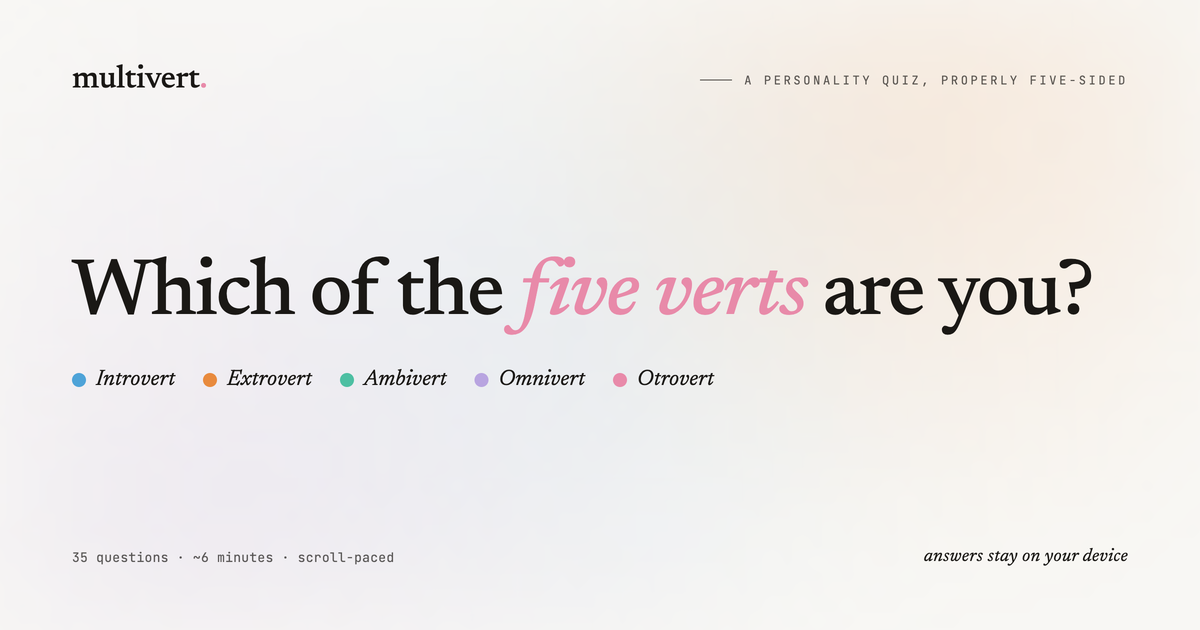
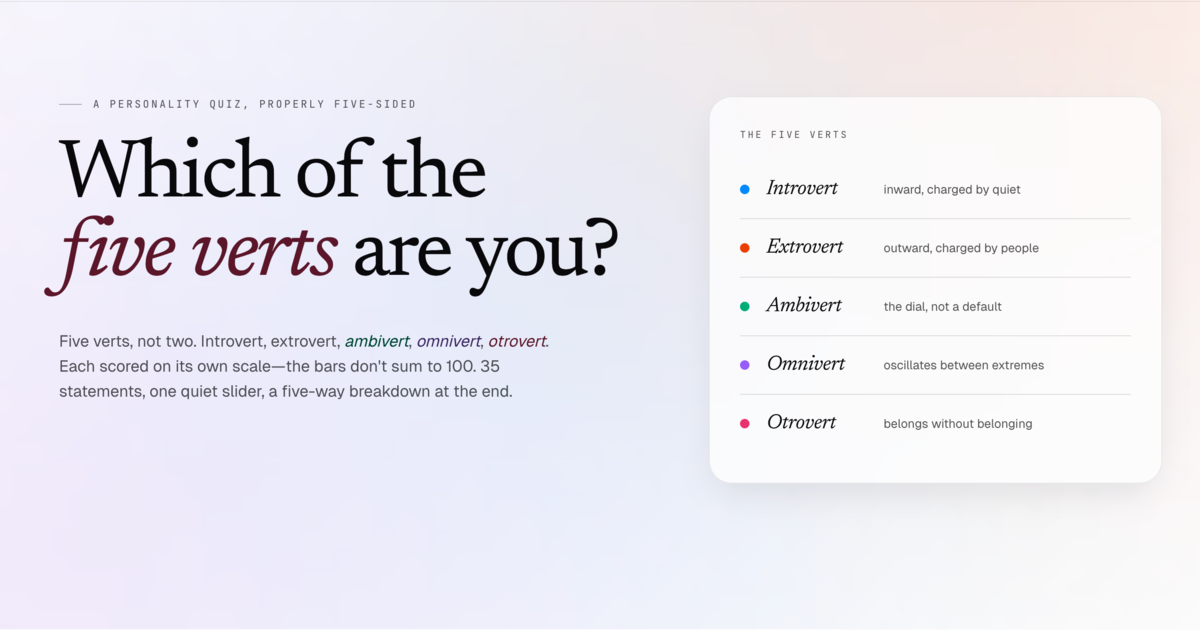
feat(landing): hero copy + share-surface housekeeping (#19)
* feat(landing): rewrite hero lede + refresh og-image to match

The previous lede did two things it shouldn't:

1. Sold readers on the categories existing ("Most quizzes only know
   two: introvert, extrovert. There are three more—…"). Anyone curious
   about whether ambivert is real can google. The hero's job is to
   invite the take, not justify the model.
2. Cited a single psychiatrist (Kaminski for otrovert) while ignoring
   the equally-cited researchers behind ambivert (Adam Grant) and
   omnivert (Cleveland Clinic). Naming one and not the others reads as
   endorsing him over them — unfair representation on the cover when
   the README's Acknowledgements section gives all five sources equal
   billing.

New lede stays in the project's deadpan/structural voice: leads with
the model fact most readers won't know (the bars don't sum to 100),
keeps the existing rhythm + the colored em-styling for the three less-
familiar verts, drops both the defensive opener and the citation.

`static/og-image.png` swapped for a new 1200x630 composition that
mirrors the updated lede. Cropped from a 2541x1334 source to the OG
spec, downscaled and recompressed (185KB, well under WhatsApp's ~300KB
unfurl ceiling).

Generated-by: claude-opus-4-7

* chore(seo): trim sitemap fluff + block AI training crawlers in robots

`static/sitemap.xml`
  Dropped <changefreq>monthly</changefreq>: the quiz is a portfolio
  piece and doesn't change monthly (or honestly, much at all). Crawlers
[…]

diff --git a/src/routes/+page.svelte b/src/routes/+page.svelte
@@ -301,11 +301,10 @@
 			</h1>
 
 			<p class="hero__lede">
-				Most quizzes only know two: introvert, extrovert. There are three more—<em
-					data-vert="ambivert">ambivert</em
-				>, <em data-vert="omnivert">omnivert</em>, and
-				<em data-vert="otrovert">otrovert</em>, popularized by psychiatrist Rami Kaminski in 2025.
-				{questions.length} statements, one quiet slider, a five-way breakdown at the end.
+				Five verts, not two. Introvert, extrovert, <em data-vert="ambivert">ambivert</em>,
+				<em data-vert="omnivert">omnivert</em>, <em data-vert="otrovert">otrovert</em>. Each scored
+				on its own scale—the bars don't sum to 100. {questions.length} statements, one quiet slider, a
+				five-way breakdown at the end.
 			</p>
 
 			<div class="hero__cta-row">
